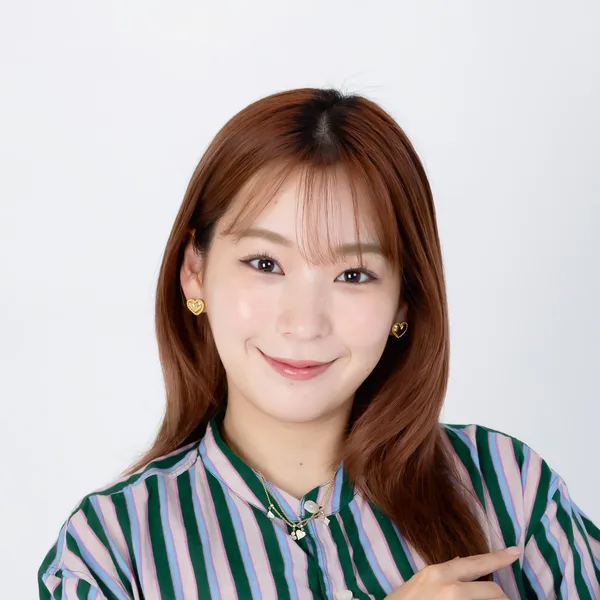
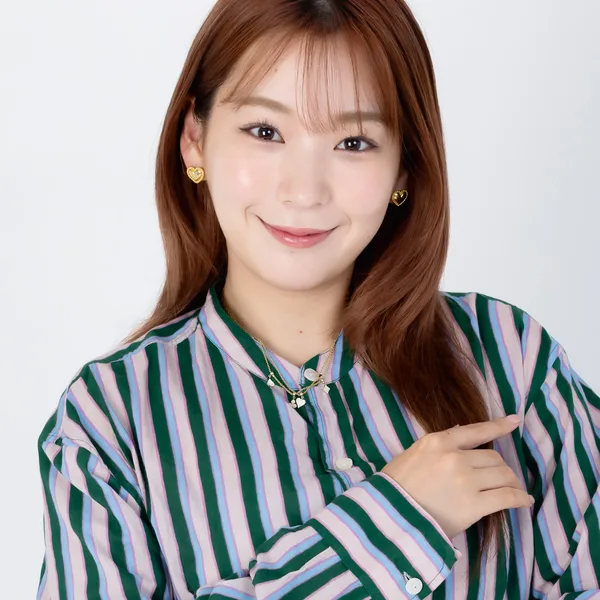
Guests: YouTube links for Habba Live; re-crop Kanako and Eriko
- YouTube buttons for 9 Habba Live performers (Hanakoloid links to HanadaP)
- Kanako Takatsuki and Eriko Nakamura photos framed with heads higher

diff --git a/index.html b/index.html
@@ -253,7 +253,7 @@
             </button>
             <div class="guest-bio hidden">
               <div class="flex flex-wrap gap-1.5"><span class="inline-block rounded-full bg-brand-pink-50 text-brand-pink-700 text-xs px-2.5 py-1">India’s most beloved idol</span><span class="inline-block rounded-full bg-brand-pink-50 text-brand-pink-700 text-xs px-2.5 py-1">NM</span></div>
-              <p>Kanapon is a Japanese idol with a devoted fanbase in India. She also performs on Sunday as one half of the idol unit NM, alongside Erisuko.</p><p class="guest-links"><a href="https://x.com/kanapon_adm" target="_blank" rel="noopener" class="social-link" style="--icon:#1DA1F2"><svg viewBox="0 0 24 24" fill="currentColor" aria-hidden="true"><path d="M23.953 4.57a10 10 0 01-2.825.775 4.958 4.958 0 002.163-2.723c-.951.555-2.005.959-3.127 1.184a4.92 4.92 0 00-8.384 4.482C7.69 8.095 4.067 6.13 1.64 3.162a4.822 4.822 0 00-.666 2.475c0 1.71.87 3.213 2.188 4.096a4.904 4.904 0 01-2.228-.616v.06a4.923 4.923 0 003.946 4.827 4.996 4.996 0 01-2.212.085 4.936 4.936 0 004.604 3.417 9.867 9.867 0 01-6.102 2.105c-.39 0-.779-.023-1.17-.067a13.995 13.995 0 007.557 2.209c9.053 0 13.998-7.496 13.998-13.985 0-.21 0-.42-.015-.63A9.935 9.935 0 0024 4.59z"/></svg><span>Twitter</span></a><a href="https://www.instagram.com/kanapon_official/" target="_blank" rel="noopener" class="social-link" style="--icon:#E4405F"><svg viewBox="0 0 24 24" fill="none" stroke="currentColor" stroke-width="2" stroke-linecap="round" stroke-linejoin="round" aria-hidden="true"><rect x="2" y="2" width="20" height="20" rx="5"/><path d="M16 11.37A4 4 0 1 1 12.63 8 4 4 0 0 1 16 11.37z"/><line x1="17.5" y1="6.5" x2="17.51" y2="6.5"/></svg><span>Instagram</span></a></p>
+              <p>Kanapon is a Japanese idol with a devoted fanbase in India. She also performs on Sunday as one half of the idol unit NM, alongside Erisuko.</p><p class="guest-links"><a href="https://x.com/kanapon_adm" target="_blank" rel="noopener" class="social-link" style="--icon:#1DA1F2"><svg viewBox="0 0 24 24" fill="currentColor" aria-hidden="true"><path d="M23.953 4.57a10 10 0 01-2.825.775 4.958 4.958 0 002.163-2.723c-.951.555-2.005.959-3.127 1.184a4.92 4.92 0 00-8.384 4.482C7.69 8.095 4.067 6.13 1.64 3.162a4.822 4.822 0 00-.666 2.475c0 1.71.87 3.213 2.188 4.096a4.904 4.904 0 01-2.228-.616v.06a4.923 4.923 0 003.946 4.827 4.996 4.996 0 01-2.212.085 4.936 4.936 0 004.604 3.417 9.867 9.867 0 01-6.102 2.105c-.39 0-.779-.023-1.17-.067a13.995 13.995 0 007.557 2.209c9.053 0 13.998-7.496 13.998-13.985 0-.21 0-.42-.015-.63A9.935 9.935 0 0024 4.59z"/></svg><span>Twitter</span></a><a href="https://www.instagram.com/kanapon_official/" target="_blank" rel="noopener" class="social-link" style="--icon:#E4405F"><svg viewBox="0 0 24 24" fill="none" stroke="currentColor" stroke-width="2" stroke-linecap="round" stroke-linejoin="round" aria-hidden="true"><rect x="2" y="2" width="20" height="20" rx="5"/><path d="M16 11.37A4 4 0 1 1 12.63 8 4 4 0 0 1 16 11.37z"/><line x1="17.5" y1="6.5" x2="17.51" y2="6.5"/></svg><span>Instagram</span></a><a href="https://www.youtube.com/@kanapon-ch_Japanese_idol" target="_blank" rel="noopener" class="social-link" style="--icon:#FF0000"><svg viewBox="0 0 24 24" fill="currentColor" aria-hidden="true"><path d="M23.498 6.186a3.016 3.016 0 0 0-2.122-2.136C19.505 3.545 12 3.545 12 3.545s-7.505 0-9.377.505A3.017 3.017 0 0 0 .502 6.186C0 8.07 0 12 0 12s0 3.93.502 5.814a3.016 3.016 0 0 0 2.122 2.136c1.871.505 9.376.505 9.376.505s7.505 0 9.377-.505a3.015 3.015 0 0 0 2.122-2.136C24 15.93 24 12 24 12s0-3.93-.502-5.814zM9.545 15.568V8.432L15.818 12l-6.273 3.568z"/></svg><span>YouTube</span></a></p>
             </div>
           </article>
           <article class="guest flex flex-col">
@@ -264,7 +264,7 @@
             </button>
             <div class="guest-bio hidden">
               <div class="flex flex-wrap gap-1.5"><span class="inline-block rounded-full bg-brand-pink-50 text-brand-pink-700 text-xs px-2.5 py-1">Hatsune Miku: Colorful Stage</span><span class="inline-block rounded-full bg-brand-pink-50 text-brand-pink-700 text-xs px-2.5 py-1">GUNDAM×MIKU</span><span class="inline-block rounded-full bg-brand-pink-50 text-brand-pink-700 text-xs px-2.5 py-1">Magic: The Gathering</span></div>
-              <p>Mwk is a Japanese composer and Vocaloid producer, known for &ldquo;Connected&rdquo; featuring Hatsune Miku for Magic: The Gathering, as well as work on Hatsune Miku: Colorful Stage and GUNDAM×MIKU.</p><p class="guest-links"><a href="https://x.com/Mwk_094" target="_blank" rel="noopener" class="social-link" style="--icon:#1DA1F2"><svg viewBox="0 0 24 24" fill="currentColor" aria-hidden="true"><path d="M23.953 4.57a10 10 0 01-2.825.775 4.958 4.958 0 002.163-2.723c-.951.555-2.005.959-3.127 1.184a4.92 4.92 0 00-8.384 4.482C7.69 8.095 4.067 6.13 1.64 3.162a4.822 4.822 0 00-.666 2.475c0 1.71.87 3.213 2.188 4.096a4.904 4.904 0 01-2.228-.616v.06a4.923 4.923 0 003.946 4.827 4.996 4.996 0 01-2.212.085 4.936 4.936 0 004.604 3.417 9.867 9.867 0 01-6.102 2.105c-.39 0-.779-.023-1.17-.067a13.995 13.995 0 007.557 2.209c9.053 0 13.998-7.496 13.998-13.985 0-.21 0-.42-.015-.63A9.935 9.935 0 0024 4.59z"/></svg><span>Twitter</span></a><a href="https://www.instagram.com/MWK_094/" target="_blank" rel="noopener" class="social-link" style="--icon:#E4405F"><svg viewBox="0 0 24 24" fill="none" stroke="currentColor" stroke-width="2" stroke-linecap="round" stroke-linejoin="round" aria-hidden="true"><rect x="2" y="2" width="20" height="20" rx="5"/><path d="M16 11.37A4 4 0 1 1 12.63 8 4 4 0 0 1 16 11.37z"/><line x1="17.5" y1="6.5" x2="17.51" y2="6.5"/></svg><span>Instagram</span></a></p>
+              <p>Mwk is a Japanese composer and Vocaloid producer, known for &ldquo;Connected&rdquo; featuring Hatsune Miku for Magic: The Gathering, as well as work on Hatsune Miku: Colorful Stage and GUNDAM×MIKU.</p><p class="guest-links"><a href="https://x.com/Mwk_094" target="_blank" rel="noopener" class="social-link" style="--icon:#1DA1F2"><svg viewBox="0 0 24 24" fill="currentColor" aria-hidden="true"><path d="M23.953 4.57a10 10 0 01-2.825.775 4.958 4.958 0 002.163-2.723c-.951.555-2.005.959-3.127 1.184a4.92 4.92 0 00-8.384 4.482C7.69 8.095 4.067 6.13 1.64 3.162a4.822 4.822 0 00-.666 2.475c0 1.71.87 3.213 2.188 4.096a4.904 4.904 0 01-2.228-.616v.06a4.923 4.923 0 003.946 4.827 4.996 4.996 0 01-2.212.085 4.936 4.936 0 004.604 3.417 9.867 9.867 0 01-6.102 2.105c-.39 0-.779-.023-1.17-.067a13.995 13.995 0 007.557 2.209c9.053 0 13.998-7.496 13.998-13.985 0-.21 0-.42-.015-.63A9.935 9.935 0 0024 4.59z"/></svg><span>Twitter</span></a><a href="https://www.instagram.com/MWK_094/" target="_blank" rel="noopener" class="social-link" style="--icon:#E4405F"><svg viewBox="0 0 24 24" fill="none" stroke="currentColor" stroke-width="2" stroke-linecap="round" stroke-linejoin="round" aria-hidden="true"><rect x="2" y="2" width="20" height="20" rx="5"/><path d="M16 11.37A4 4 0 1 1 12.63 8 4 4 0 0 1 16 11.37z"/><line x1="17.5" y1="6.5" x2="17.51" y2="6.5"/></svg><span>Instagram</span></a><a href="https://www.youtube.com/@Mwk" target="_blank" rel="noopener" class="social-link" style="--icon:#FF0000"><svg viewBox="0 0 24 24" fill="currentColor" aria-hidden="true"><path d="M23.498 6.186a3.016 3.016 0 0 0-2.122-2.136C19.505 3.545 12 3.545 12 3.545s-7.505 0-9.377.505A3.017 3.017 0 0 0 .502 6.186C0 8.07 0 12 0 12s0 3.93.502 5.814a3.016 3.016 0 0 0 2.122 2.136c1.871.505 9.376.505 9.376.505s7.505 0 9.377-.505a3.015 3.015 0 0 0 2.122-2.136C24 15.93 24 12 24 12s0-3.93-.502-5.814zM9.545 15.568V8.432L15.818 12l-6.273 3.568z"/></svg><span>YouTube</span></a></p>
             </div>
           </article>
           <article class="guest flex flex-col">
@@ -275,7 +275,7 @@
             </button>
             <div class="guest-bio hidden">
               <div class="flex flex-wrap gap-1.5"><span class="inline-block rounded-full bg-brand-pink-50 text-brand-pink-700 text-xs px-2.5 py-1">Love Live! Sunshine!!</span><span class="inline-block rounded-full bg-brand-pink-50 text-brand-pink-700 text-xs px-2.5 py-1">I Stand Upon a Million Lives</span><span class="inline-block rounded-full bg-brand-pink-50 text-brand-pink-700 text-xs px-2.5 py-1">Koi to Uso</span><span class="inline-block rounded-full bg-brand-pink-50 text-brand-pink-700 text-xs px-2.5 py-1">Vlad Love</span></div>
-              <p>Kanako Takatsuki debuted in 2015 as Hanamaru Kunikida in the TV anime <em>Love Live! Sunshine!!</em>. As a member of Aqours, the group formed from the series, she performed at NHK’s Kōhaku Uta Gassen and completed a three-city dome tour in 2022.</p><p>In 2020 she made her solo debut with &ldquo;Anti World&rdquo;, the opening theme of <em>I Stand Upon a Million Lives</em>.</p><p class="guest-links"><a href="https://x.com/Kanako_tktk" target="_blank" rel="noopener" class="social-link" style="--icon:#1DA1F2"><svg viewBox="0 0 24 24" fill="currentColor" aria-hidden="true"><path d="M23.953 4.57a10 10 0 01-2.825.775 4.958 4.958 0 002.163-2.723c-.951.555-2.005.959-3.127 1.184a4.92 4.92 0 00-8.384 4.482C7.69 8.095 4.067 6.13 1.64 3.162a4.822 4.822 0 00-.666 2.475c0 1.71.87 3.213 2.188 4.096a4.904 4.904 0 01-2.228-.616v.06a4.923 4.923 0 003.946 4.827 4.996 4.996 0 01-2.212.085 4.936 4.936 0 004.604 3.417 9.867 9.867 0 01-6.102 2.105c-.39 0-.779-.023-1.17-.067a13.995 13.995 0 007.557 2.209c9.053 0 13.998-7.496 13.998-13.985 0-.21 0-.42-.015-.63A9.935 9.935 0 0024 4.59z"/></svg><span>Twitter</span></a><a href="https://www.instagram.com/kanako.tktk/" target="_blank" rel="noopener" class="social-link" style="--icon:#E4405F"><svg viewBox="0 0 24 24" fill="none" stroke="currentColor" stroke-width="2" stroke-linecap="round" stroke-linejoin="round" aria-hidden="true"><rect x="2" y="2" width="20" height="20" rx="5"/><path d="M16 11.37A4 4 0 1 1 12.63 8 4 4 0 0 1 16 11.37z"/><line x1="17.5" y1="6.5" x2="17.51" y2="6.5"/></svg><span>Instagram</span></a></p>
+              <p>Kanako Takatsuki debuted in 2015 as Hanamaru Kunikida in the TV anime <em>Love Live! Sunshine!!</em>. As a member of Aqours, the group formed from the series, she performed at NHK’s Kōhaku Uta Gassen and completed a three-city dome tour in 2022.</p><p>In 2020 she made her solo debut with &ldquo;Anti World&rdquo;, the opening theme of <em>I Stand Upon a Million Lives</em>.</p><p class="guest-links"><a href="https://x.com/Kanako_tktk" target="_blank" rel="noopener" class="social-link" style="--icon:#1DA1F2"><svg viewBox="0 0 24 24" fill="currentColor" aria-hidden="true"><path d="M23.953 4.57a10 10 0 01-2.825.775 4.958 4.958 0 002.163-2.723c-.951.555-2.005.959-3.127 1.184a4.92 4.92 0 00-8.384 4.482C7.69 8.095 4.067 6.13 1.64 3.162a4.822 4.822 0 00-.666 2.475c0 1.71.87 3.213 2.188 4.096a4.904 4.904 0 01-2.228-.616v.06a4.923 4.923 0 003.946 4.827 4.996 4.996 0 01-2.212.085 4.936 4.936 0 004.604 3.417 9.867 9.867 0 01-6.102 2.105c-.39 0-.779-.023-1.17-.067a13.995 13.995 0 007.557 2.209c9.053 0 13.998-7.496 13.998-13.985 0-.21 0-.42-.015-.63A9.935 9.935 0 0024 4.59z"/></svg><span>Twitter</span></a><a href="https://www.instagram.com/kanako.tktk/" target="_blank" rel="noopener" class="social-link" style="--icon:#E4405F"><svg viewBox="0 0 24 24" fill="none" stroke="currentColor" stroke-width="2" stroke-linecap="round" stroke-linejoin="round" aria-hidden="true"><rect x="2" y="2" width="20" height="20" rx="5"/><path d="M16 11.37A4 4 0 1 1 12.63 8 4 4 0 0 1 16 11.37z"/><line x1="17.5" y1="6.5" x2="17.51" y2="6.5"/></svg><span>Instagram</span></a><a href="https://www.youtube.com/@kanako_tktk" target="_blank" rel="noopener" class="social-link" style="--icon:#FF0000"><svg viewBox="0 0 24 24" fill="currentColor" aria-hidden="true"><path d="M23.498 6.186a3.016 3.016 0 0 0-2.122-2.136C19.505 3.545 12 3.545 12 3.545s-7.505 0-9.377.505A3.017 3.017 0 0 0 .502 6.186C0 8.07 0 12 0 12s0 3.93.502 5.814a3.016 3.016 0 0 0 2.122 2.136c1.871.505 9.376.505 9.376.505s7.505 0 9.377-.505a3.015 3.015 0 0 0 2.122-2.136C24 15.93 24 12 24 12s0-3.93-.502-5.814zM9.545 15.568V8.432L15.818 12l-6.273 3.568z"/></svg><span>YouTube</span></a></p>
             </div>
           </article>
           <article class="guest flex flex-col">
@@ -297,7 +297,7 @@
             </button>
             <div class="guest-bio hidden">
               <div class="flex flex-wrap gap-1.5"><span class="inline-block rounded-full bg-brand-pink-50 text-brand-pink-700 text-xs px-2.5 py-1">Macross Frontier</span><span class="inline-block rounded-full bg-brand-pink-50 text-brand-pink-700 text-xs px-2.5 py-1">Accel World</span><span class="inline-block rounded-full bg-brand-pink-50 text-brand-pink-700 text-xs px-2.5 py-1">BEYBLADE X</span><span class="inline-block rounded-full bg-brand-pink-50 text-brand-pink-700 text-xs px-2.5 py-1">Grand Blue Dreaming</span></div>
-              <p>May’n made her major-label debut in 2005 at just 15. She broke through in 2008 as the singing voice of Sheryl Nome in <em>Macross Frontier</em>, and has since sung theme songs for anime, games, dramas and films.</p><p>She has headlined the Nippon Budokan and Yokohama Arena five times, played solo shows in 16 cities worldwide, and celebrated her 20th anniversary in 2026 with a seven-city best-of tour.</p><p class="guest-links"><a href="https://mayn.jp/" target="_blank" rel="noopener" class="social-link" style="--icon:#6B7280"><svg viewBox="0 0 24 24" fill="none" stroke="currentColor" stroke-width="2" stroke-linecap="round" stroke-linejoin="round" aria-hidden="true"><circle cx="12" cy="12" r="10"/><line x1="2" y1="12" x2="22" y2="12"/><path d="M12 2a15.3 15.3 0 0 1 4 10 15.3 15.3 0 0 1-4 10 15.3 15.3 0 0 1-4-10 15.3 15.3 0 0 1 4-10z"/></svg><span>Website</span></a><a href="https://x.com/mayn_tw" target="_blank" rel="noopener" class="social-link" style="--icon:#1DA1F2"><svg viewBox="0 0 24 24" fill="currentColor" aria-hidden="true"><path d="M23.953 4.57a10 10 0 01-2.825.775 4.958 4.958 0 002.163-2.723c-.951.555-2.005.959-3.127 1.184a4.92 4.92 0 00-8.384 4.482C7.69 8.095 4.067 6.13 1.64 3.162a4.822 4.822 0 00-.666 2.475c0 1.71.87 3.213 2.188 4.096a4.904 4.904 0 01-2.228-.616v.06a4.923 4.923 0 003.946 4.827 4.996 4.996 0 01-2.212.085 4.936 4.936 0 004.604 3.417 9.867 9.867 0 01-6.102 2.105c-.39 0-.779-.023-1.17-.067a13.995 13.995 0 007.557 2.209c9.053 0 13.998-7.496 13.998-13.985 0-.21 0-.42-.015-.63A9.935 9.935 0 0024 4.59z"/></svg><span>Twitter</span></a><a href="https://www.instagram.com/mayn1021/" target="_blank" rel="noopener" class="social-link" style="--icon:#E4405F"><svg viewBox="0 0 24 24" fill="none" stroke="currentColor" stroke-width="2" stroke-linecap="round" stroke-linejoin="round" aria-hidden="true"><rect x="2" y="2" width="20" height="20" rx="5"/><path d="M16 11.37A4 4 0 1 1 12.63 8 4 4 0 0 1 16 11.37z"/><line x1="17.5" y1="6.5" x2="17.51" y2="6.5"/></svg><span>Instagram</span></a></p>
+              <p>May’n made her major-label debut in 2005 at just 15. She broke through in 2008 as the singing voice of Sheryl Nome in <em>Macross Frontier</em>, and has since sung theme songs for anime, games, dramas and films.</p><p>She has headlined the Nippon Budokan and Yokohama Arena five times, played solo shows in 16 cities worldwide, and celebrated her 20th anniversary in 2026 with a seven-city best-of tour.</p><p class="guest-links"><a href="https://mayn.jp/" target="_blank" rel="noopener" class="social-link" style="--icon:#6B7280"><svg viewBox="0 0 24 24" fill="none" stroke="currentColor" stroke-width="2" stroke-linecap="round" stroke-linejoin="round" aria-hidden="true"><circle cx="12" cy="12" r="10"/><line x1="2" y1="12" x2="22" y2="12"/><path d="M12 2a15.3 15.3 0 0 1 4 10 15.3 15.3 0 0 1-4 10 15.3 15.3 0 0 1-4-10 15.3 15.3 0 0 1 4-10z"/></svg><span>Website</span></a><a href="https://x.com/mayn_tw" target="_blank" rel="noopener" class="social-link" style="--icon:#1DA1F2"><svg viewBox="0 0 24 24" fill="currentColor" aria-hidden="true"><path d="M23.953 4.57a10 10 0 01-2.825.775 4.958 4.958 0 002.163-2.723c-.951.555-2.005.959-3.127 1.184a4.92 4.92 0 00-8.384 4.482C7.69 8.095 4.067 6.13 1.64 3.162a4.822 4.822 0 00-.666 2.475c0 1.71.87 3.213 2.188 4.096a4.904 4.904 0 01-2.228-.616v.06a4.923 4.923 0 003.946 4.827 4.996 4.996 0 01-2.212.085 4.936 4.936 0 004.604 3.417 9.867 9.867 0 01-6.102 2.105c-.39 0-.779-.023-1.17-.067a13.995 13.995 0 007.557 2.209c9.053 0 13.998-7.496 13.998-13.985 0-.21 0-.42-.015-.63A9.935 9.935 0 0024 4.59z"/></svg><span>Twitter</span></a><a href="https://www.instagram.com/mayn1021/" target="_blank" rel="noopener" class="social-link" style="--icon:#E4405F"><svg viewBox="0 0 24 24" fill="none" stroke="currentColor" stroke-width="2" stroke-linecap="round" stroke-linejoin="round" aria-hidden="true"><rect x="2" y="2" width="20" height="20" rx="5"/><path d="M16 11.37A4 4 0 1 1 12.63 8 4 4 0 0 1 16 11.37z"/><line x1="17.5" y1="6.5" x2="17.51" y2="6.5"/></svg><span>Instagram</span></a><a href="https://www.youtube.com/user/MaynOfficial" target="_blank" rel="noopener" class="social-link" style="--icon:#FF0000"><svg viewBox="0 0 24 24" fill="currentColor" aria-hidden="true"><path d="M23.498 6.186a3.016 3.016 0 0 0-2.122-2.136C19.505 3.545 12 3.545 12 3.545s-7.505 0-9.377.505A3.017 3.017 0 0 0 .502 6.186C0 8.07 0 12 0 12s0 3.93.502 5.814a3.016 3.016 0 0 0 2.122 2.136c1.871.505 9.376.505 9.376.505s7.505 0 9.377-.505a3.015 3.015 0 0 0 2.122-2.136C24 15.93 24 12 24 12s0-3.93-.502-5.814zM9.545 15.568V8.432L15.818 12l-6.273 3.568z"/></svg><span>YouTube</span></a></p>
             </div>
           </article>
         </div>
@@ -314,7 +314,7 @@
             </button>
             <div class="guest-bio hidden">
               <div class="flex flex-wrap gap-1.5"><span class="inline-block rounded-full bg-brand-pink-50 text-brand-pink-700 text-xs px-2.5 py-1">Kanapon</span><span class="inline-block rounded-full bg-brand-pink-50 text-brand-pink-700 text-xs px-2.5 py-1">Erisuko</span></div>
-              <p>NM (Nanometer) is a two-person idol unit featuring Kanapon and Erisuko.</p><p class="guest-links"><a href="https://x.com/InfoNanometer" target="_blank" rel="noopener" class="social-link" style="--icon:#1DA1F2"><svg viewBox="0 0 24 24" fill="currentColor" aria-hidden="true"><path d="M23.953 4.57a10 10 0 01-2.825.775 4.958 4.958 0 002.163-2.723c-.951.555-2.005.959-3.127 1.184a4.92 4.92 0 00-8.384 4.482C7.69 8.095 4.067 6.13 1.64 3.162a4.822 4.822 0 00-.666 2.475c0 1.71.87 3.213 2.188 4.096a4.904 4.904 0 01-2.228-.616v.06a4.923 4.923 0 003.946 4.827 4.996 4.996 0 01-2.212.085 4.936 4.936 0 004.604 3.417 9.867 9.867 0 01-6.102 2.105c-.39 0-.779-.023-1.17-.067a13.995 13.995 0 007.557 2.209c9.053 0 13.998-7.496 13.998-13.985 0-.21 0-.42-.015-.63A9.935 9.935 0 0024 4.59z"/></svg><span>Twitter</span></a><a href="https://www.instagram.com/__nanometer__0512/" target="_blank" rel="noopener" class="social-link" style="--icon:#E4405F"><svg viewBox="0 0 24 24" fill="none" stroke="currentColor" stroke-width="2" stroke-linecap="round" stroke-linejoin="round" aria-hidden="true"><rect x="2" y="2" width="20" height="20" rx="5"/><path d="M16 11.37A4 4 0 1 1 12.63 8 4 4 0 0 1 16 11.37z"/><line x1="17.5" y1="6.5" x2="17.51" y2="6.5"/></svg><span>Instagram</span></a><a href="https://x.com/kanapon_adm" target="_blank" rel="noopener" class="social-link" style="--icon:#1DA1F2"><svg viewBox="0 0 24 24" fill="currentColor" aria-hidden="true"><path d="M23.953 4.57a10 10 0 01-2.825.775 4.958 4.958 0 002.163-2.723c-.951.555-2.005.959-3.127 1.184a4.92 4.92 0 00-8.384 4.482C7.69 8.095 4.067 6.13 1.64 3.162a4.822 4.822 0 00-.666 2.475c0 1.71.87 3.213 2.188 4.096a4.904 4.904 0 01-2.228-.616v.06a4.923 4.923 0 003.946 4.827 4.996 4.996 0 01-2.212.085 4.936 4.936 0 004.604 3.417 9.867 9.867 0 01-6.102 2.105c-.39 0-.779-.023-1.17-.067a13.995 13.995 0 007.557 2.209c9.053 0 13.998-7.496 13.998-13.985 0-.21 0-.42-.015-.63A9.935 9.935 0 0024 4.59z"/></svg><span>Kanapon</span></a><a href="https://www.instagram.com/kanapon_official/" target="_blank" rel="noopener" class="social-link" style="--icon:#E4405F"><svg viewBox="0 0 24 24" fill="none" stroke="currentColor" stroke-width="2" stroke-linecap="round" stroke-linejoin="round" aria-hidden="true"><rect x="2" y="2" width="20" height="20" rx="5"/><path d="M16 11.37A4 4 0 1 1 12.63 8 4 4 0 0 1 16 11.37z"/><line x1="17.5" y1="6.5" x2="17.51" y2="6.5"/></svg><span>Kanapon</span></a><a href="https://x.com/eri22ka" target="_blank" rel="noopener" class="social-link" style="--icon:#1DA1F2"><svg viewBox="0 0 24 24" fill="currentColor" aria-hidden="true"><path d="M23.953 4.57a10 10 0 01-2.825.775 4.958 4.958 0 002.163-2.723c-.951.555-2.005.959-3.127 1.184a4.92 4.92 0 00-8.384 4.482C7.69 8.095 4.067 6.13 1.64 3.162a4.822 4.822 0 00-.666 2.475c0 1.71.87 3.213 2.188 4.096a4.904 4.904 0 01-2.228-.616v.06a4.923 4.923 0 003.946 4.827 4.996 4.996 0 01-2.212.085 4.936 4.936 0 004.604 3.417 9.867 9.867 0 01-6.102 2.105c-.39 0-.779-.023-1.17-.067a13.995 13.995 0 007.557 2.209c9.053 0 13.998-7.496 13.998-13.985 0-.21 0-.42-.015-.63A9.935 9.935 0 0024 4.59z"/></svg><span>Erisuko</span></a><a href="https://www.instagram.com/erisuko_.s22/" target="_blank" rel="noopener" class="social-link" style="--icon:#E4405F"><svg viewBox="0 0 24 24" fill="none" stroke="currentColor" stroke-width="2" stroke-linecap="round" stroke-linejoin="round" aria-hidden="true"><rect x="2" y="2" width="20" height="20" rx="5"/><path d="M16 11.37A4 4 0 1 1 12.63 8 4 4 0 0 1 16 11.37z"/><line x1="17.5" y1="6.5" x2="17.51" y2="6.5"/></svg><span>Erisuko</span></a></p>
+              <p>NM (Nanometer) is a two-person idol unit featuring Kanapon and Erisuko.</p><p class="guest-links"><a href="https://x.com/InfoNanometer" target="_blank" rel="noopener" class="social-link" style="--icon:#1DA1F2"><svg viewBox="0 0 24 24" fill="currentColor" aria-hidden="true"><path d="M23.953 4.57a10 10 0 01-2.825.775 4.958 4.958 0 002.163-2.723c-.951.555-2.005.959-3.127 1.184a4.92 4.92 0 00-8.384 4.482C7.69 8.095 4.067 6.13 1.64 3.162a4.822 4.822 0 00-.666 2.475c0 1.71.87 3.213 2.188 4.096a4.904 4.904 0 01-2.228-.616v.06a4.923 4.923 0 003.946 4.827 4.996 4.996 0 01-2.212.085 4.936 4.936 0 004.604 3.417 9.867 9.867 0 01-6.102 2.105c-.39 0-.779-.023-1.17-.067a13.995 13.995 0 007.557 2.209c9.053 0 13.998-7.496 13.998-13.985 0-.21 0-.42-.015-.63A9.935 9.935 0 0024 4.59z"/></svg><span>Twitter</span></a><a href="https://www.instagram.com/__nanometer__0512/" target="_blank" rel="noopener" class="social-link" style="--icon:#E4405F"><svg viewBox="0 0 24 24" fill="none" stroke="currentColor" stroke-width="2" stroke-linecap="round" stroke-linejoin="round" aria-hidden="true"><rect x="2" y="2" width="20" height="20" rx="5"/><path d="M16 11.37A4 4 0 1 1 12.63 8 4 4 0 0 1 16 11.37z"/><line x1="17.5" y1="6.5" x2="17.51" y2="6.5"/></svg><span>Instagram</span></a><a href="https://www.youtube.com/@nanometer_2023" target="_blank" rel="noopener" class="social-link" style="--icon:#FF0000"><svg viewBox="0 0 24 24" fill="currentColor" aria-hidden="true"><path d="M23.498 6.186a3.016 3.016 0 0 0-2.122-2.136C19.505 3.545 12 3.545 12 3.545s-7.505 0-9.377.505A3.017 3.017 0 0 0 .502 6.186C0 8.07 0 12 0 12s0 3.93.502 5.814a3.016 3.016 0 0 0 2.122 2.136c1.871.505 9.376.505 9.376.505s7.505 0 9.377-.505a3.015 3.015 0 0 0 2.122-2.136C24 15.93 24 12 24 12s0-3.93-.502-5.814zM9.545 15.568V8.432L15.818 12l-6.273 3.568z"/></svg><span>YouTube</span></a><a href="https://x.com/kanapon_adm" target="_blank" rel="noopener" class="social-link" style="--icon:#1DA1F2"><svg viewBox="0 0 24 24" fill="currentColor" aria-hidden="true"><path d="M23.953 4.57a10 10 0 01-2.825.775 4.958 4.958 0 002.163-2.723c-.951.555-2.005.959-3.127 1.184a4.92 4.92 0 00-8.384 4.482C7.69 8.095 4.067 6.13 1.64 3.162a4.822 4.822 0 00-.666 2.475c0 1.71.87 3.213 2.188 4.096a4.904 4.904 0 01-2.228-.616v.06a4.923 4.923 0 003.946 4.827 4.996 4.996 0 01-2.212.085 4.936 4.936 0 004.604 3.417 9.867 9.867 0 01-6.102 2.105c-.39 0-.779-.023-1.17-.067a13.995 13.995 0 007.557 2.209c9.053 0 13.998-7.496 13.998-13.985 0-.21 0-.42-.015-.63A9.935 9.935 0 0024 4.59z"/></svg><span>Kanapon</span></a><a href="https://www.instagram.com/kanapon_official/" target="_blank" rel="noopener" class="social-link" style="--icon:#E4405F"><svg viewBox="0 0 24 24" fill="none" stroke="currentColor" stroke-width="2" stroke-linecap="round" stroke-linejoin="round" aria-hidden="true"><rect x="2" y="2" width="20" height="20" rx="5"/><path d="M16 11.37A4 4 0 1 1 12.63 8 4 4 0 0 1 16 11.37z"/><line x1="17.5" y1="6.5" x2="17.51" y2="6.5"/></svg><span>Kanapon</span></a><a href="https://x.com/eri22ka" target="_blank" rel="noopener" class="social-link" style="--icon:#1DA1F2"><svg viewBox="0 0 24 24" fill="currentColor" aria-hidden="true"><path d="M23.953 4.57a10 10 0 01-2.825.775 4.958 4.958 0 002.163-2.723c-.951.555-2.005.959-3.127 1.184a4.92 4.92 0 00-8.384 4.482C7.69 8.095 4.067 6.13 1.64 3.162a4.822 4.822 0 00-.666 2.475c0 1.71.87 3.213 2.188 4.096a4.904 4.904 0 01-2.228-.616v.06a4.923 4.923 0 003.946 4.827 4.996 4.996 0 01-2.212.085 4.936 4.936 0 004.604 3.417 9.867 9.867 0 01-6.102 2.105c-.39 0-.779-.023-1.17-.067a13.995 13.995 0 007.557 2.209c9.053 0 13.998-7.496 13.998-13.985 0-.21 0-.42-.015-.63A9.935 9.935 0 0024 4.59z"/></svg><span>Erisuko</span></a><a href="https://www.instagram.com/erisuko_.s22/" target="_blank" rel="noopener" class="social-link" style="--icon:#E4405F"><svg viewBox="0 0 24 24" fill="none" stroke="currentColor" stroke-width="2" stroke-linecap="round" stroke-linejoin="round" aria-hidden="true"><rect x="2" y="2" width="20" height="20" rx="5"/><path d="M16 11.37A4 4 0 1 1 12.63 8 4 4 0 0 1 16 11.37z"/><line x1="17.5" y1="6.5" x2="17.51" y2="6.5"/></svg><span>Erisuko</span></a></p>
             </div>
           </article>
           <article class="guest flex flex-col">
@@ -325,7 +325,7 @@
             </button>
             <div class="guest-bio hidden">
               <div class="flex flex-wrap gap-1.5"><span class="inline-block rounded-full bg-brand-pink-50 text-brand-pink-700 text-xs px-2.5 py-1">India’s first UTAU</span><span class="inline-block rounded-full bg-brand-pink-50 text-brand-pink-700 text-xs px-2.5 py-1">Sings in Tamil</span><span class="inline-block rounded-full bg-brand-pink-50 text-brand-pink-700 text-xs px-2.5 py-1">NHK New Japonism</span></div>
-              <p>Hanakoloid is the first Indian UTAU voicebank, and the first able to sing natively in an Indian language, Tamil. She was created by HanadaP, illustrated by Miu, and revealed at Japan Habba 2025.</p><p>Her debut was featured in NHK’s documentary series <em>New Japonism</em>. At Habba Live she takes the stage in a full 3DCG concert.</p><p class="guest-links"><a href="https://x.com/india39miku" target="_blank" rel="noopener" class="social-link" style="--icon:#1DA1F2"><svg viewBox="0 0 24 24" fill="currentColor" aria-hidden="true"><path d="M23.953 4.57a10 10 0 01-2.825.775 4.958 4.958 0 002.163-2.723c-.951.555-2.005.959-3.127 1.184a4.92 4.92 0 00-8.384 4.482C7.69 8.095 4.067 6.13 1.64 3.162a4.822 4.822 0 00-.666 2.475c0 1.71.87 3.213 2.188 4.096a4.904 4.904 0 01-2.228-.616v.06a4.923 4.923 0 003.946 4.827 4.996 4.996 0 01-2.212.085 4.936 4.936 0 004.604 3.417 9.867 9.867 0 01-6.102 2.105c-.39 0-.779-.023-1.17-.067a13.995 13.995 0 007.557 2.209c9.053 0 13.998-7.496 13.998-13.985 0-.21 0-.42-.015-.63A9.935 9.935 0 0024 4.59z"/></svg><span>Twitter</span></a><a href="https://www.instagram.com/39sindia/" target="_blank" rel="noopener" class="social-link" style="--icon:#E4405F"><svg viewBox="0 0 24 24" fill="none" stroke="currentColor" stroke-width="2" stroke-linecap="round" stroke-linejoin="round" aria-hidden="true"><rect x="2" y="2" width="20" height="20" rx="5"/><path d="M16 11.37A4 4 0 1 1 12.63 8 4 4 0 0 1 16 11.37z"/><line x1="17.5" y1="6.5" x2="17.51" y2="6.5"/></svg><span>Instagram</span></a></p><p class="text-xs text-gray-400">Art by Kishi (@nin.nyan.ve)</p>
+              <p>Hanakoloid is the first Indian UTAU voicebank, and the first able to sing natively in an Indian language, Tamil. She was created by HanadaP, illustrated by Miu, and revealed at Japan Habba 2025.</p><p>Her debut was featured in NHK’s documentary series <em>New Japonism</em>. At Habba Live she takes the stage in a full 3DCG concert.</p><p class="guest-links"><a href="https://x.com/india39miku" target="_blank" rel="noopener" class="social-link" style="--icon:#1DA1F2"><svg viewBox="0 0 24 24" fill="currentColor" aria-hidden="true"><path d="M23.953 4.57a10 10 0 01-2.825.775 4.958 4.958 0 002.163-2.723c-.951.555-2.005.959-3.127 1.184a4.92 4.92 0 00-8.384 4.482C7.69 8.095 4.067 6.13 1.64 3.162a4.822 4.822 0 00-.666 2.475c0 1.71.87 3.213 2.188 4.096a4.904 4.904 0 01-2.228-.616v.06a4.923 4.923 0 003.946 4.827 4.996 4.996 0 01-2.212.085 4.936 4.936 0 004.604 3.417 9.867 9.867 0 01-6.102 2.105c-.39 0-.779-.023-1.17-.067a13.995 13.995 0 007.557 2.209c9.053 0 13.998-7.496 13.998-13.985 0-.21 0-.42-.015-.63A9.935 9.935 0 0024 4.59z"/></svg><span>Twitter</span></a><a href="https://www.instagram.com/39sindia/" target="_blank" rel="noopener" class="social-link" style="--icon:#E4405F"><svg viewBox="0 0 24 24" fill="none" stroke="currentColor" stroke-width="2" stroke-linecap="round" stroke-linejoin="round" aria-hidden="true"><rect x="2" y="2" width="20" height="20" rx="5"/><path d="M16 11.37A4 4 0 1 1 12.63 8 4 4 0 0 1 16 11.37z"/><line x1="17.5" y1="6.5" x2="17.51" y2="6.5"/></svg><span>Instagram</span></a><a href="https://www.youtube.com/@HanadaP" target="_blank" rel="noopener" class="social-link" style="--icon:#FF0000"><svg viewBox="0 0 24 24" fill="currentColor" aria-hidden="true"><path d="M23.498 6.186a3.016 3.016 0 0 0-2.122-2.136C19.505 3.545 12 3.545 12 3.545s-7.505 0-9.377.505A3.017 3.017 0 0 0 .502 6.186C0 8.07 0 12 0 12s0 3.93.502 5.814a3.016 3.016 0 0 0 2.122 2.136c1.871.505 9.376.505 9.376.505s7.505 0 9.377-.505a3.015 3.015 0 0 0 2.122-2.136C24 15.93 24 12 24 12s0-3.93-.502-5.814zM9.545 15.568V8.432L15.818 12l-6.273 3.568z"/></svg><span>YouTube</span></a></p><p class="text-xs text-gray-400">Art by Kishi (@nin.nyan.ve)</p>
             </div>
           </article>
           <article class="guest flex flex-col">
@@ -336,7 +336,7 @@
             </button>
             <div class="guest-bio hidden">
               <div class="flex flex-wrap gap-1.5"><span class="inline-block rounded-full bg-brand-pink-50 text-brand-pink-700 text-xs px-2.5 py-1">Laid-Back Camp</span><span class="inline-block rounded-full bg-brand-pink-50 text-brand-pink-700 text-xs px-2.5 py-1">Uma Musume: Pretty Derby</span><span class="inline-block rounded-full bg-brand-pink-50 text-brand-pink-700 text-xs px-2.5 py-1">Higurashi: When They Cry</span><span class="inline-block rounded-full bg-brand-pink-50 text-brand-pink-700 text-xs px-2.5 py-1">Occultic;Nine</span></div>
-              <p>Asaka debuted in 2016 at 17 with &ldquo;Open your eyes&rdquo;, the ending theme of <em>Occultic;Nine</em>. She went on to sing &ldquo;SHINY DAYS&rdquo;, the opening of <em>Laid-Back Camp</em>, and themes for <em>Summer Time Rendering</em> and <em>A Centaur’s Life</em>.</p><p>She spent five years of her childhood in Michigan, USA, and also voices Espoir City in <em>Uma Musume</em>. 2026 marks her 10th year as a singer.</p><p class="guest-links"><a href="https://x.com/AsakaOfficial" target="_blank" rel="noopener" class="social-link" style="--icon:#1DA1F2"><svg viewBox="0 0 24 24" fill="currentColor" aria-hidden="true"><path d="M23.953 4.57a10 10 0 01-2.825.775 4.958 4.958 0 002.163-2.723c-.951.555-2.005.959-3.127 1.184a4.92 4.92 0 00-8.384 4.482C7.69 8.095 4.067 6.13 1.64 3.162a4.822 4.822 0 00-.666 2.475c0 1.71.87 3.213 2.188 4.096a4.904 4.904 0 01-2.228-.616v.06a4.923 4.923 0 003.946 4.827 4.996 4.996 0 01-2.212.085 4.936 4.936 0 004.604 3.417 9.867 9.867 0 01-6.102 2.105c-.39 0-.779-.023-1.17-.067a13.995 13.995 0 007.557 2.209c9.053 0 13.998-7.496 13.998-13.985 0-.21 0-.42-.015-.63A9.935 9.935 0 0024 4.59z"/></svg><span>Twitter</span></a><a href="https://www.instagram.com/asaka_official/" target="_blank" rel="noopener" class="social-link" style="--icon:#E4405F"><svg viewBox="0 0 24 24" fill="none" stroke="currentColor" stroke-width="2" stroke-linecap="round" stroke-linejoin="round" aria-hidden="true"><rect x="2" y="2" width="20" height="20" rx="5"/><path d="M16 11.37A4 4 0 1 1 12.63 8 4 4 0 0 1 16 11.37z"/><line x1="17.5" y1="6.5" x2="17.51" y2="6.5"/></svg><span>Instagram</span></a></p>
+              <p>Asaka debuted in 2016 at 17 with &ldquo;Open your eyes&rdquo;, the ending theme of <em>Occultic;Nine</em>. She went on to sing &ldquo;SHINY DAYS&rdquo;, the opening of <em>Laid-Back Camp</em>, and themes for <em>Summer Time Rendering</em> and <em>A Centaur’s Life</em>.</p><p>She spent five years of her childhood in Michigan, USA, and also voices Espoir City in <em>Uma Musume</em>. 2026 marks her 10th year as a singer.</p><p class="guest-links"><a href="https://x.com/AsakaOfficial" target="_blank" rel="noopener" class="social-link" style="--icon:#1DA1F2"><svg viewBox="0 0 24 24" fill="currentColor" aria-hidden="true"><path d="M23.953 4.57a10 10 0 01-2.825.775 4.958 4.958 0 002.163-2.723c-.951.555-2.005.959-3.127 1.184a4.92 4.92 0 00-8.384 4.482C7.69 8.095 4.067 6.13 1.64 3.162a4.822 4.822 0 00-.666 2.475c0 1.71.87 3.213 2.188 4.096a4.904 4.904 0 01-2.228-.616v.06a4.923 4.923 0 003.946 4.827 4.996 4.996 0 01-2.212.085 4.936 4.936 0 004.604 3.417 9.867 9.867 0 01-6.102 2.105c-.39 0-.779-.023-1.17-.067a13.995 13.995 0 007.557 2.209c9.053 0 13.998-7.496 13.998-13.985 0-.21 0-.42-.015-.63A9.935 9.935 0 0024 4.59z"/></svg><span>Twitter</span></a><a href="https://www.instagram.com/asaka_official/" target="_blank" rel="noopener" class="social-link" style="--icon:#E4405F"><svg viewBox="0 0 24 24" fill="none" stroke="currentColor" stroke-width="2" stroke-linecap="round" stroke-linejoin="round" aria-hidden="true"><rect x="2" y="2" width="20" height="20" rx="5"/><path d="M16 11.37A4 4 0 1 1 12.63 8 4 4 0 0 1 16 11.37z"/><line x1="17.5" y1="6.5" x2="17.51" y2="6.5"/></svg><span>Instagram</span></a><a href="https://www.youtube.com/@asaka1007" target="_blank" rel="noopener" class="social-link" style="--icon:#FF0000"><svg viewBox="0 0 24 24" fill="currentColor" aria-hidden="true"><path d="M23.498 6.186a3.016 3.016 0 0 0-2.122-2.136C19.505 3.545 12 3.545 12 3.545s-7.505 0-9.377.505A3.017 3.017 0 0 0 .502 6.186C0 8.07 0 12 0 12s0 3.93.502 5.814a3.016 3.016 0 0 0 2.122 2.136c1.871.505 9.376.505 9.376.505s7.505 0 9.377-.505a3.015 3.015 0 0 0 2.122-2.136C24 15.93 24 12 24 12s0-3.93-.502-5.814zM9.545 15.568V8.432L15.818 12l-6.273 3.568z"/></svg><span>YouTube</span></a></p>
             </div>
           </article>
           <article class="guest flex flex-col">
@@ -347,7 +347,7 @@
             </button>
             <div class="guest-bio hidden">
               <div class="flex flex-wrap gap-1.5"><span class="inline-block rounded-full bg-brand-pink-50 text-brand-pink-700 text-xs px-2.5 py-1">Persona 3</span><span class="inline-block rounded-full bg-brand-pink-50 text-brand-pink-700 text-xs px-2.5 py-1">Persona 3 Reload</span><span class="inline-block rounded-full bg-brand-pink-50 text-brand-pink-700 text-xs px-2.5 py-1">JoJo’s Bizarre Adventure</span><span class="inline-block rounded-full bg-brand-pink-50 text-brand-pink-700 text-xs px-2.5 py-1">Soul Eater</span></div>
-              <p>A pioneer in bringing rap into anime and game music, Lotus Juice is best known for his work with Shoji Meguro at ATLUS, including the iconic &ldquo;Mass Destruction&rdquo; from <em>Persona 3</em>.</p><p>In 2024 &ldquo;It’s Going Down Now&rdquo; went viral on TikTok, topping Billboard Japan’s Global Japan Songs chart. His anime work with composer Taku Iwasaki includes <em>JoJo’s Bizarre Adventure</em>, <em>Soul Eater</em>, <em>Noragami</em> and <em>Black Butler</em>.</p><p class="guest-links"><a href="http://lotusjuice.com/" target="_blank" rel="noopener" class="social-link" style="--icon:#6B7280"><svg viewBox="0 0 24 24" fill="none" stroke="currentColor" stroke-width="2" stroke-linecap="round" stroke-linejoin="round" aria-hidden="true"><circle cx="12" cy="12" r="10"/><line x1="2" y1="12" x2="22" y2="12"/><path d="M12 2a15.3 15.3 0 0 1 4 10 15.3 15.3 0 0 1-4 10 15.3 15.3 0 0 1-4-10 15.3 15.3 0 0 1 4-10z"/></svg><span>Website</span></a><a href="https://x.com/lotusjuice" target="_blank" rel="noopener" class="social-link" style="--icon:#1DA1F2"><svg viewBox="0 0 24 24" fill="currentColor" aria-hidden="true"><path d="M23.953 4.57a10 10 0 01-2.825.775 4.958 4.958 0 002.163-2.723c-.951.555-2.005.959-3.127 1.184a4.92 4.92 0 00-8.384 4.482C7.69 8.095 4.067 6.13 1.64 3.162a4.822 4.822 0 00-.666 2.475c0 1.71.87 3.213 2.188 4.096a4.904 4.904 0 01-2.228-.616v.06a4.923 4.923 0 003.946 4.827 4.996 4.996 0 01-2.212.085 4.936 4.936 0 004.604 3.417 9.867 9.867 0 01-6.102 2.105c-.39 0-.779-.023-1.17-.067a13.995 13.995 0 007.557 2.209c9.053 0 13.998-7.496 13.998-13.985 0-.21 0-.42-.015-.63A9.935 9.935 0 0024 4.59z"/></svg><span>Twitter</span></a><a href="https://www.instagram.com/lotusjuice/" target="_blank" rel="noopener" class="social-link" style="--icon:#E4405F"><svg viewBox="0 0 24 24" fill="none" stroke="currentColor" stroke-width="2" stroke-linecap="round" stroke-linejoin="round" aria-hidden="true"><rect x="2" y="2" width="20" height="20" rx="5"/><path d="M16 11.37A4 4 0 1 1 12.63 8 4 4 0 0 1 16 11.37z"/><line x1="17.5" y1="6.5" x2="17.51" y2="6.5"/></svg><span>Instagram</span></a></p>
+              <p>A pioneer in bringing rap into anime and game music, Lotus Juice is best known for his work with Shoji Meguro at ATLUS, including the iconic &ldquo;Mass Destruction&rdquo; from <em>Persona 3</em>.</p><p>In 2024 &ldquo;It’s Going Down Now&rdquo; went viral on TikTok, topping Billboard Japan’s Global Japan Songs chart. His anime work with composer Taku Iwasaki includes <em>JoJo’s Bizarre Adventure</em>, <em>Soul Eater</em>, <em>Noragami</em> and <em>Black Butler</em>.</p><p class="guest-links"><a href="http://lotusjuice.com/" target="_blank" rel="noopener" class="social-link" style="--icon:#6B7280"><svg viewBox="0 0 24 24" fill="none" stroke="currentColor" stroke-width="2" stroke-linecap="round" stroke-linejoin="round" aria-hidden="true"><circle cx="12" cy="12" r="10"/><line x1="2" y1="12" x2="22" y2="12"/><path d="M12 2a15.3 15.3 0 0 1 4 10 15.3 15.3 0 0 1-4 10 15.3 15.3 0 0 1-4-10 15.3 15.3 0 0 1 4-10z"/></svg><span>Website</span></a><a href="https://x.com/lotusjuice" target="_blank" rel="noopener" class="social-link" style="--icon:#1DA1F2"><svg viewBox="0 0 24 24" fill="currentColor" aria-hidden="true"><path d="M23.953 4.57a10 10 0 01-2.825.775 4.958 4.958 0 002.163-2.723c-.951.555-2.005.959-3.127 1.184a4.92 4.92 0 00-8.384 4.482C7.69 8.095 4.067 6.13 1.64 3.162a4.822 4.822 0 00-.666 2.475c0 1.71.87 3.213 2.188 4.096a4.904 4.904 0 01-2.228-.616v.06a4.923 4.923 0 003.946 4.827 4.996 4.996 0 01-2.212.085 4.936 4.936 0 004.604 3.417 9.867 9.867 0 01-6.102 2.105c-.39 0-.779-.023-1.17-.067a13.995 13.995 0 007.557 2.209c9.053 0 13.998-7.496 13.998-13.985 0-.21 0-.42-.015-.63A9.935 9.935 0 0024 4.59z"/></svg><span>Twitter</span></a><a href="https://www.instagram.com/lotusjuice/" target="_blank" rel="noopener" class="social-link" style="--icon:#E4405F"><svg viewBox="0 0 24 24" fill="none" stroke="currentColor" stroke-width="2" stroke-linecap="round" stroke-linejoin="round" aria-hidden="true"><rect x="2" y="2" width="20" height="20" rx="5"/><path d="M16 11.37A4 4 0 1 1 12.63 8 4 4 0 0 1 16 11.37z"/><line x1="17.5" y1="6.5" x2="17.51" y2="6.5"/></svg><span>Instagram</span></a><a href="https://www.youtube.com/@LotusJuice_GoodVibes" target="_blank" rel="noopener" class="social-link" style="--icon:#FF0000"><svg viewBox="0 0 24 24" fill="currentColor" aria-hidden="true"><path d="M23.498 6.186a3.016 3.016 0 0 0-2.122-2.136C19.505 3.545 12 3.545 12 3.545s-7.505 0-9.377.505A3.017 3.017 0 0 0 .502 6.186C0 8.07 0 12 0 12s0 3.93.502 5.814a3.016 3.016 0 0 0 2.122 2.136c1.871.505 9.376.505 9.376.505s7.505 0 9.377-.505a3.015 3.015 0 0 0 2.122-2.136C24 15.93 24 12 24 12s0-3.93-.502-5.814zM9.545 15.568V8.432L15.818 12l-6.273 3.568z"/></svg><span>YouTube</span></a></p>
             </div>
           </article>
           <article class="guest flex flex-col">
@@ -358,7 +358,7 @@
             </button>
             <div class="guest-bio hidden">
               <div class="flex flex-wrap gap-1.5"><span class="inline-block rounded-full bg-brand-pink-50 text-brand-pink-700 text-xs px-2.5 py-1">Attack on Titan</span><span class="inline-block rounded-full bg-brand-pink-50 text-brand-pink-700 text-xs px-2.5 py-1">Re:CREATORS</span><span class="inline-block rounded-full bg-brand-pink-50 text-brand-pink-700 text-xs px-2.5 py-1">Mobile Suit Gundam NT</span><span class="inline-block rounded-full bg-brand-pink-50 text-brand-pink-700 text-xs px-2.5 py-1">Wuthering Waves</span></div>
-              <p>R!N (Gemie) is a Japanese singer-songwriter known for her vocals on major anime and game soundtracks, including <em>Attack on Titan</em>, <em>Re:CREATORS</em>, <em>Kingdom</em>, <em>Mobile Suit Gundam NT</em>, <em>League of Legends</em> and <em>Wuthering Waves</em>.</p><p>She has also written songs for ASCA, iScream and OH MY GIRL, and performs internationally as an independent artist.</p><p class="guest-links"><a href="https://x.com/rin_gemie" target="_blank" rel="noopener" class="social-link" style="--icon:#1DA1F2"><svg viewBox="0 0 24 24" fill="currentColor" aria-hidden="true"><path d="M23.953 4.57a10 10 0 01-2.825.775 4.958 4.958 0 002.163-2.723c-.951.555-2.005.959-3.127 1.184a4.92 4.92 0 00-8.384 4.482C7.69 8.095 4.067 6.13 1.64 3.162a4.822 4.822 0 00-.666 2.475c0 1.71.87 3.213 2.188 4.096a4.904 4.904 0 01-2.228-.616v.06a4.923 4.923 0 003.946 4.827 4.996 4.996 0 01-2.212.085 4.936 4.936 0 004.604 3.417 9.867 9.867 0 01-6.102 2.105c-.39 0-.779-.023-1.17-.067a13.995 13.995 0 007.557 2.209c9.053 0 13.998-7.496 13.998-13.985 0-.21 0-.42-.015-.63A9.935 9.935 0 0024 4.59z"/></svg><span>Twitter</span></a><a href="https://www.instagram.com/rin_gemie/" target="_blank" rel="noopener" class="social-link" style="--icon:#E4405F"><svg viewBox="0 0 24 24" fill="none" stroke="currentColor" stroke-width="2" stroke-linecap="round" stroke-linejoin="round" aria-hidden="true"><rect x="2" y="2" width="20" height="20" rx="5"/><path d="M16 11.37A4 4 0 1 1 12.63 8 4 4 0 0 1 16 11.37z"/><line x1="17.5" y1="6.5" x2="17.51" y2="6.5"/></svg><span>Instagram</span></a></p>
+              <p>R!N (Gemie) is a Japanese singer-songwriter known for her vocals on major anime and game soundtracks, including <em>Attack on Titan</em>, <em>Re:CREATORS</em>, <em>Kingdom</em>, <em>Mobile Suit Gundam NT</em>, <em>League of Legends</em> and <em>Wuthering Waves</em>.</p><p>She has also written songs for ASCA, iScream and OH MY GIRL, and performs internationally as an independent artist.</p><p class="guest-links"><a href="https://x.com/rin_gemie" target="_blank" rel="noopener" class="social-link" style="--icon:#1DA1F2"><svg viewBox="0 0 24 24" fill="currentColor" aria-hidden="true"><path d="M23.953 4.57a10 10 0 01-2.825.775 4.958 4.958 0 002.163-2.723c-.951.555-2.005.959-3.127 1.184a4.92 4.92 0 00-8.384 4.482C7.69 8.095 4.067 6.13 1.64 3.162a4.822 4.822 0 00-.666 2.475c0 1.71.87 3.213 2.188 4.096a4.904 4.904 0 01-2.228-.616v.06a4.923 4.923 0 003.946 4.827 4.996 4.996 0 01-2.212.085 4.936 4.936 0 004.604 3.417 9.867 9.867 0 01-6.102 2.105c-.39 0-.779-.023-1.17-.067a13.995 13.995 0 007.557 2.209c9.053 0 13.998-7.496 13.998-13.985 0-.21 0-.42-.015-.63A9.935 9.935 0 0024 4.59z"/></svg><span>Twitter</span></a><a href="https://www.instagram.com/rin_gemie/" target="_blank" rel="noopener" class="social-link" style="--icon:#E4405F"><svg viewBox="0 0 24 24" fill="none" stroke="currentColor" stroke-width="2" stroke-linecap="round" stroke-linejoin="round" aria-hidden="true"><rect x="2" y="2" width="20" height="20" rx="5"/><path d="M16 11.37A4 4 0 1 1 12.63 8 4 4 0 0 1 16 11.37z"/><line x1="17.5" y1="6.5" x2="17.51" y2="6.5"/></svg><span>Instagram</span></a><a href="https://www.youtube.com/@RinChan0608" target="_blank" rel="noopener" class="social-link" style="--icon:#FF0000"><svg viewBox="0 0 24 24" fill="currentColor" aria-hidden="true"><path d="M23.498 6.186a3.016 3.016 0 0 0-2.122-2.136C19.505 3.545 12 3.545 12 3.545s-7.505 0-9.377.505A3.017 3.017 0 0 0 .502 6.186C0 8.07 0 12 0 12s0 3.93.502 5.814a3.016 3.016 0 0 0 2.122 2.136c1.871.505 9.376.505 9.376.505s7.505 0 9.377-.505a3.015 3.015 0 0 0 2.122-2.136C24 15.93 24 12 24 12s0-3.93-.502-5.814zM9.545 15.568V8.432L15.818 12l-6.273 3.568z"/></svg><span>YouTube</span></a></p>
             </div>
           </article>
         </div>
